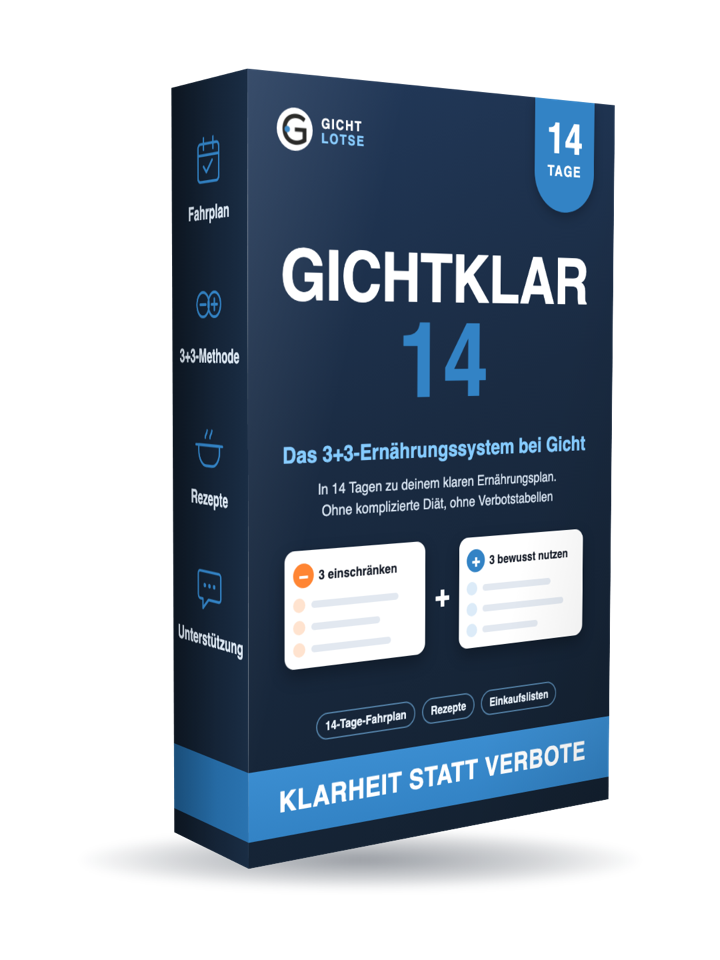
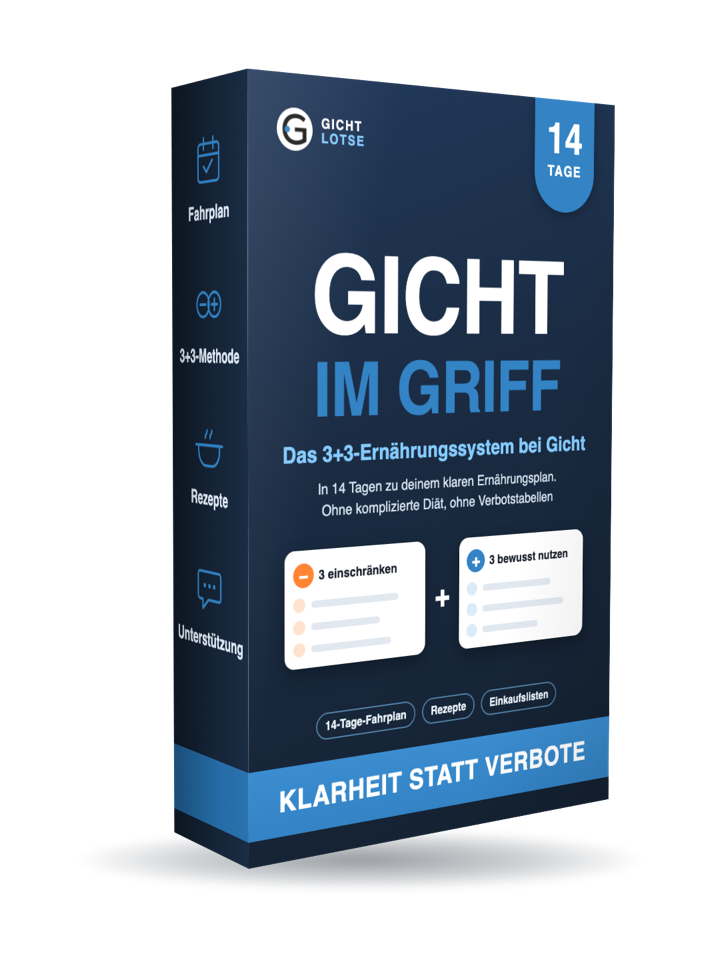
Produktname GICHT IM GRIFF, Autor nur Diplom-Biologe
Box-Mockup neu gerendert, alle Texte, README und Lovable-Prompt
angepasst. Heilpraktiker bewusst nicht mehr genannt.

Changed region(s): [[0.3972, 0.25, 0.825, 0.4375]]

diff --git a/index.html b/index.html
@@ -3,7 +3,7 @@
 <head>
 <meta charset="UTF-8">
 <meta name="viewport" content="width=device-width, initial-scale=1">
-<title>GICHTKLAR 14 | In 14 Tagen zu einem klaren Ernährungsplan bei Gicht</title>
+<title>GICHT IM GRIFF | In 14 Tagen zu einem klaren Ernährungsplan bei Gicht</title>
 <link rel="icon" type="image/png" href="bilder/favicon.png">
 <link rel="apple-touch-icon" href="bilder/favicon.png">
 <meta name="description" content="Das einfache 3+3-Ernährungssystem für Männer ab 45 mit Gicht. 14-Tage-Fahrplan, Rezepte, Einkaufslisten. Nur 37 € statt 199 €.">
@@ -69,9 +69,9 @@ a.buy:hover .btn{background:var(--btnhover);}
   </div>
 
   <div class="hero">
-    <div class="left"><img src="bilder/cover.png" alt="GICHTKLAR 14 Box: Das 3+3-Ernährungssystem bei Gicht"></div>
+    <div class="left"><img src="bilder/cover.png" alt="GICHT IM GRIFF Box: Das 3+3-Ernährungssystem bei Gicht"></div>
     <div class="right">
-      <h2>Das bekommst du in GICHTKLAR 14</h2>
+      <h2>Das bekommst du in GICHT IM GRIFF</h2>
       <ul class="bullets">
         <li><span class="check">&#10003;</span><div><b>Dein 14-Tage-Ernährungsfahrplan</b>: Jeden Tag ein klarer Schritt, damit du morgens weißt, was auf deinen Teller kommt</div></li>
         <li><span class="check">&#10003;</span><div><b>Die 3+3-Methode</b>: 3 Lebensmittelgruppen, die du gezielt einschränkst, und 3, die du bewusst einbaust</div></li>
@@ -81,9 +81,9 @@ a.buy:hover .btn{background:var(--btnhover);}
       </ul>
       <div class="price"><span class="old">Statt 199 €</span><span class="new">nur 37 €</span></div>
       <!-- BESTELL-LINK: vorläufig gicht-coach.de/ernaehrungsratgeber, später durch bryght.social-Link ersetzen -->
-      <a class="buy" href="https://gicht-coach.de/ernaehrungsratgeber/"><div class="btn">Jetzt GICHTKLAR 14 für 37 € sichern</div></a>
+      <a class="buy" href="https://gicht-coach.de/ernaehrungsratgeber/"><div class="btn">Jetzt GICHT IM GRIFF für 37 € sichern</div></a>
       <!-- Nach Start auf bryght.social ersetzen durch: Sichere Bezahlung über bryght.social. Sofortzugang nach Kauf -->
-      <div class="micro">GICHTKLAR 14 startet in Kürze. Bis dahin findest du hier meinen Ernährungsratgeber</div>
+      <div class="micro">GICHT IM GRIFF startet in Kürze. Bis dahin findest du hier meinen Ernährungsratgeber</div>
     </div>
   </div>
 
@@ -101,15 +101,15 @@ a.buy:hover .btn{background:var(--btnhover);}
 
   <div class="author">
     <img src="bilder/autor.jpg" onerror="this.onerror=null;this.src='bilder/autor.svg'" alt="Jochen Hein">
-    <div class="txt"><b>Jochen Hein</b>, <b>Diplom-Biologe und Heilpraktiker</b>. Mit meinem <b>3+3-System</b> sank mein Harnsäurewert von <b>7,3 auf 6,3 mg/dl</b>, ich lebe ohne Medikamente und bin <b>seit August 2017</b> frei von Gichtanfällen. Bei mir hat die Ernährung gereicht; ob das bei dir genauso ist, kann ich nicht versprechen, aber ich gebe dir den Plan, den ich mir 2012 gewünscht hätte.</div>
+    <div class="txt"><b>Jochen Hein</b>, <b>Diplom-Biologe</b>. Mit meinem <b>3+3-System</b> sank mein Harnsäurewert von <b>7,3 auf 6,3 mg/dl</b>, ich lebe ohne Medikamente und bin <b>seit August 2017</b> frei von Gichtanfällen. Bei mir hat die Ernährung gereicht; ob das bei dir genauso ist, kann ich nicht versprechen, aber ich gebe dir den Plan, den ich mir 2012 gewünscht hätte.</div>
   </div>
 
-  <div class="guarantee">14 Tage Geld-zurück-Garantie: Teste GICHTKLAR 14 in Ruhe. Passt es nicht zu deinem Alltag, bekommst du deine 37 € zurück, ohne Angabe von Gründen. Einmalzahlung, kein Abo.</div>
+  <div class="guarantee">14 Tage Geld-zurück-Garantie: Teste GICHT IM GRIFF in Ruhe. Passt es nicht zu deinem Alltag, bekommst du deine 37 € zurück, ohne Angabe von Gründen. Einmalzahlung, kein Abo.</div>
 
   <!-- BESTELL-LINK: vorläufig gicht-coach.de/ernaehrungsratgeber, später durch bryght.social-Link ersetzen -->
-  <div class="cta2"><a class="buy" href="https://gicht-coach.de/ernaehrungsratgeber/"><div class="btn">Jetzt GICHTKLAR 14 für 37 € sichern</div></a></div>
+  <div class="cta2"><a class="buy" href="https://gicht-coach.de/ernaehrungsratgeber/"><div class="btn">Jetzt GICHT IM GRIFF für 37 € sichern</div></a></div>
 
-  <div class="foot">GICHTKLAR 14 ist ein Ernährungs- und Informationsprogramm und ersetzt keine ärztliche Diagnose oder Behandlung. Beschwerdefreiheit, bestimmte Harnsäurewerte oder das Ausbleiben weiterer Gichtanfälle werden nicht garantiert. Die Kundenstimmen stammen aus meiner persönlichen Einzelberatung, Personendaten sind anonymisiert. Einzelergebnisse sind nicht übertragbar.<br><br><a href="https://gicht-lotse.de/impressum/" target="_blank" rel="noopener">Impressum</a> · <a href="https://gicht-lotse.de/datenschutz/" target="_blank" rel="noopener">Datenschutz</a> · © 2026 Jochen Hein</div>
+  <div class="foot">GICHT IM GRIFF ist ein Ernährungs- und Informationsprogramm und ersetzt keine ärztliche Diagnose oder Behandlung. Beschwerdefreiheit, bestimmte Harnsäurewerte oder das Ausbleiben weiterer Gichtanfälle werden nicht garantiert. Die Kundenstimmen stammen aus meiner persönlichen Einzelberatung, Personendaten sind anonymisiert. Einzelergebnisse sind nicht übertragbar.<br><br><a href="https://gicht-lotse.de/impressum/" target="_blank" rel="noopener">Impressum</a> · <a href="https://gicht-lotse.de/datenschutz/" target="_blank" rel="noopener">Datenschutz</a> · © 2026 Jochen Hein</div>
 
 </div>
 </body>

diff --git a/docs/mockup/box.html b/docs/mockup/box.html
@@ -2,7 +2,7 @@
 <html lang="de">
 <head>
 <meta charset="UTF-8">
-<title>GICHTKLAR 14 · 3D-Box-Mockup</title>
+<title>GICHT IM GRIFF · 3D-Box-Mockup</title>
 <!--
   Quelle für bilder/cover.png. Neu rendern mit:
   "/Applications/Google Chrome.app/Contents/MacOS/Google Chrome" --headless=new --hide-scrollbars \
@@ -49,9 +49,9 @@ body{font-family:Helvetica,Arial,sans-serif;}
 .badge i{display:block;font-style:normal;font-size:22px;font-weight:800;letter-spacing:2px;margin-top:4px;}
 
 .title{position:absolute;left:0;right:0;top:228px;text-align:center;color:#fff;font-weight:900;
-  font-size:96px;line-height:.95;letter-spacing:-1px;}
+  font-size:150px;line-height:.95;letter-spacing:-2px;}
 .title span{color:var(--blue);}
-.title small{display:block;font-size:150px;color:var(--blue);letter-spacing:-2px;}
+.title small{display:block;font-size:104px;color:var(--blue);letter-spacing:-1px;margin-top:10px;}
 .subtitle{position:absolute;left:0;right:0;top:500px;text-align:center;color:var(--light);font-size:31px;font-weight:700;}
 .tag{position:absolute;left:70px;right:70px;top:552px;text-align:center;color:#D7E3F0;font-size:21px;line-height:1.45;}
 
@@ -101,7 +101,7 @@ body{font-family:Helvetica,Arial,sans-serif;}
       <div class="brand"><div class="g"><img src="../../bilder/favicon.png" alt=""></div><div class="t">GICHT<span>LOTSE</span></div></div>
       <div class="badge"><b>14</b><i>TAGE</i></div>
 
-      <div class="title">GICHTKLAR<small>14</small></div>
+      <div class="title">GICHT<small>IM GRIFF</small></div>
       <div class="subtitle">Das 3+3-Ernährungssystem bei Gicht</div>
       <div class="tag">In 14 Tagen zu deinem klaren Ernährungsplan.<br>Ohne komplizierte Diät, ohne Verbotstabellen</div>
 

diff --git a/docs/lovable-prompt.md b/docs/lovable-prompt.md
@@ -21,7 +21,7 @@ HIER DER CODE:
 <head>
 <meta charset="UTF-8">
 <meta name="viewport" content="width=device-width, initial-scale=1">
-<title>GICHTKLAR 14 | In 14 Tagen zu einem klaren Ernährungsplan bei Gicht</title>
+<title>GICHT IM GRIFF | In 14 Tagen zu einem klaren Ernährungsplan bei Gicht</title>
 <link rel="icon" type="image/png" href="bilder/favicon.png">
 <link rel="apple-touch-icon" href="bilder/favicon.png">
 <meta name="description" content="Das einfache 3+3-Ernährungssystem für Männer ab 45 mit Gicht. 14-Tage-Fahrplan, Rezepte, Einkaufslisten. Nur 37 € statt 199 €.">
@@ -87,9 +87,9 @@ a.buy:hover .btn{background:var(--btnhover);}
   </div>
 
   <div class="hero">
-    <div class="left"><img src="bilder/cover.png" alt="GICHTKLAR 14 Box: Das 3+3-Ernährungssystem bei Gicht"></div>
+    <div class="left"><img src="bilder/cover.png" alt="GICHT IM GRIFF Box: Das 3+3-Ernährungssystem bei Gicht"></div>
     <div class="right">
-      <h2>Das bekommst du in GICHTKLAR 14</h2>
+      <h2>Das bekommst du in GICHT IM GRIFF</h2>
       <ul class="bullets">
         <li><span class="check">&#10003;</span><div><b>Dein 14-Tage-Ernährungsfahrplan</b>: Jeden Tag ein klarer Schritt, damit du morgens weißt, was auf deinen Teller kommt</div></li>
         <li><span class="check">&#10003;</span><div><b>Die 3+3-Methode</b>: 3 Lebensmittelgruppen, die du gezielt einschränkst, und 3, die du bewusst einbaust</div></li>
@@ -99,9 +99,9 @@ a.buy:hover .btn{background:var(--btnhover);}
       </ul>
       <div class="price"><span class="old">Statt 199 €</span><span class="new">nur 37 €</span></div>
       <!-- BESTELL-LINK: vorläufig gicht-coach.de/ernaehrungsratgeber, später durch bryght.social-Link ersetzen -->
-      <a class="buy" href="https://gicht-coach.de/ernaehrungsratgeber/"><div class="btn">Jetzt GICHTKLAR 14 für 37 € sichern</div></a>
+      <a class="buy" href="https://gicht-coach.de/ernaehrungsratgeber/"><div class="btn">Jetzt GICHT IM GRIFF für 37 € sichern</div></a>
       <!-- Nach Start auf bryght.social ersetzen durch: Sichere Bezahlung über bryght.social. Sofortzugang nach Kauf -->
-      <div class="micro">GICHTKLAR 14 startet in Kürze. Bis dahin findest du hier meinen Ernährungsratgeber</div>
+      <div class="micro">GICHT IM GRIFF startet in Kürze. Bis dahin findest du hier meinen Ernährungsratgeber</div>
     </div>
   </div>
 
@@ -119,15 +119,15 @@ a.buy:hover .btn{background:var(--btnhover);}
 
   <div class="author">
     <img src="bilder/autor.jpg" onerror="this.onerror=null;this.src='bilder/autor.svg'" alt="Jochen Hein">
-    <div class="txt"><b>Jochen Hein</b>, <b>Diplom-Biologe und Heilpraktiker</b>. Mit meinem <b>3+3-System</b> sank mein Harnsäurewert von <b>7,3 auf 6,3 mg/dl</b>, ich lebe ohne Medikamente und bin <b>seit August 2017</b> frei von Gichtanfällen. Bei mir hat die Ernährung gereicht; ob das bei dir genauso ist, kann ich nicht versprechen, aber ich gebe dir den Plan, den ich mir 2012 gewünscht hätte.</div>
+    <div class="txt"><b>Jochen Hein</b>, <b>Diplom-Biologe</b>. Mit meinem <b>3+3-System</b> sank mein Harnsäurewert von <b>7,3 auf 6,3 mg/dl</b>, ich lebe ohne Medikamente und bin <b>seit August 2017</b> frei von Gichtanfällen. Bei mir hat die Ernährung gereicht; ob das bei dir genauso ist, kann ich nicht versprechen, aber ich gebe dir den Plan, den ich mir 2012 gewünscht hätte.</div>
   </div>
 
-  <div class="guarantee">14 Tage Geld-zurück-Garantie: Teste GICHTKLAR 14 in Ruhe. Passt es nicht zu deinem Alltag, bekommst du deine 37 € zurück, ohne Angabe von Gründen. Einmalzahlung, kein Abo.</div>
+  <div class="guarantee">14 Tage Geld-zurück-Garantie: Teste GICHT IM GRIFF in Ruhe. Passt es nicht zu deinem Alltag, bekommst du deine 37 € zurück, ohne Angabe von Gründen. Einmalzahlung, kein Abo.</div>
 
   <!-- BESTELL-LINK: vorläufig gicht-coach.de/ernaehrungsratgeber, später durch bryght.social-Link ersetzen -->
-  <div class="cta2"><a class="buy" href="https://gicht-coach.de/ernaehrungsratgeber/"><div class="btn">Jetzt GICHTKLAR 14 für 37 € sichern</div></a></div>
+  <div class="cta2"><a class="buy" href="https://gicht-coach.de/ernaehrungsratgeber/"><div class="btn">Jetzt GICHT IM GRIFF für 37 € sichern</div></a></div>
 
-  <div class="foot">GICHTKLAR 14 ist ein Ernährungs- und Informationsprogramm und ersetzt keine ärztliche Diagnose oder Behandlung. Beschwerdefreiheit, bestimmte Harnsäurewerte oder das Ausbleiben weiterer Gichtanfälle werden nicht garantiert. Die Kundenstimmen stammen aus meiner persönlichen Einzelberatung, Personendaten sind anonymisiert. Einzelergebnisse sind nicht übertragbar.<br><br><a href="https://gicht-lotse.de/impressum/" target="_blank" rel="noopener">Impressum</a> · <a href="https://gicht-lotse.de/datenschutz/" target="_blank" rel="noopener">Datenschutz</a> · © 2026 Jochen Hein</div>
+  <div class="foot">GICHT IM GRIFF ist ein Ernährungs- und Informationsprogramm und ersetzt keine ärztliche Diagnose oder Behandlung. Beschwerdefreiheit, bestimmte Harnsäurewerte oder das Ausbleiben weiterer Gichtanfälle werden nicht garantiert. Die Kundenstimmen stammen aus meiner persönlichen Einzelberatung, Personendaten sind anonymisiert. Einzelergebnisse sind nicht übertragbar.<br><br><a href="https://gicht-lotse.de/impressum/" target="_blank" rel="noopener">Impressum</a> · <a href="https://gicht-lotse.de/datenschutz/" target="_blank" rel="noopener">Datenschutz</a> · © 2026 Jochen Hein</div>
 
 </div>
 </body>

diff --git a/README.md b/README.md
@@ -1,6 +1,6 @@
-# GICHTKLAR 14 · Verkaufsseite für den 37-€-Workshop
+# GICHT IM GRIFF · Verkaufsseite für den 37-€-Workshop
 
-Verkaufsseite für **GICHTKLAR 14**, ein 14-Tage-Ernährungssystem für Männer ab 45 mit Gicht.
+Verkaufsseite für **GICHT IM GRIFF**, ein 14-Tage-Ernährungssystem für Männer ab 45 mit Gicht.
 
 ## Projekt-Kontext
 
@@ -24,7 +24,7 @@ Verkaufsseite für **GICHTKLAR 14**, ein 14-Tage-Ernährungssystem für Männer 
 ## Aufbau
 
 - `index.html`: die komplette Seite (HTML und CSS in einer Datei)
-- `bilder/cover.png`: 3D-Box-Mockup GICHTKLAR 14 (720 × 960 px, transparenter Hintergrund)
+- `bilder/cover.png`: 3D-Box-Mockup GICHT IM GRIFF (720 × 960 px, transparenter Hintergrund)
 - `bilder/logo-web.jpg`: Gicht-Lotse-Logo für den Seitenkopf (520 px breit, aus `logo/gicht-lotse-logo-quer.jpg`)
 - `bilder/favicon.png`: Browser-Icon (180 px, aus `logo/gicht-lotse-icon-quadrat.webp`)
 - `bilder/logo/`: alle Original-Logo-Varianten (quer, 16:9, quadratisch, nur das G-Icon)
@@ -32,17 +32,17 @@ Verkaufsseite für **GICHTKLAR 14**, ein 14-Tage-Ernährungssystem für Männer 
 - `docs/lovable-prompt.md`: fertiger Prompt, um die Seite in Lovable zu bauen
 - `docs/copy-notizen.md`: Produktnamen und Hinweise zur Copy
 - `docs/mockup/box.html`: Quelle des Box-Mockups (HTML/CSS 3D). Texte und Farben dort ändern und neu rendern, der Befehl steht oben in der Datei
-- `docs/mockup/gichtklar14-box-1080x1440.png`: Box-Mockup in voller Größe, z. B. für Social Media oder bryght.social
-- `docs/referenz/mockup-pre-kurs-strategie.webp`: Box-Mockup aus dem Referenzprojekt, als Vorlage für ein eigenes GICHTKLAR-14-Cover. **Nicht selbst auf der Seite verwenden.**
+- `docs/mockup/gicht-im-griff-box-1080x1440.png`: Box-Mockup in voller Größe, z. B. für Social Media oder bryght.social
+- `docs/referenz/mockup-pre-kurs-strategie.webp`: Box-Mockup aus dem Referenzprojekt, als Vorlage für ein eigenes GICHT-IM-GRIFF-Cover. **Nicht selbst auf der Seite verwenden.**
 
 ## Noch offen
 
 - [ ] Bestell-Link von bryght.social an beiden Buttons einsetzen. Vorläufig verlinken sie auf https://gicht-coach.de/ernaehrungsratgeber/. Dann auch den Text unter dem Button zurücksetzen (Vorlage steht als Kommentar in `index.html`)
-- [x] Eigenes 3D-Box-Mockup für GICHTKLAR 14 im Stil der Referenz erstellt und als Cover eingesetzt
+- [x] Eigenes 3D-Box-Mockup für GICHT IM GRIFF im Stil der Referenz erstellt und als Cover eingesetzt
 - [x] Farben und Schriften von gicht-lotse.de und gicht-coach.de übernommen
 - [x] Drei Kundenstimmen von gicht-coach.de übernommen (Thomas, Michael, Monika; Hinweis auf Einzelberatung im Footer)
 - [x] Impressum und Datenschutz verlinkt (gicht-lotse.de/impressum, gicht-lotse.de/datenschutz)
 - [ ] Datenschutzerklärung auf gicht-lotse.de um diese Seite ergänzen: Hosting über GitHub Pages, Verkauf über bryght.social
-- [ ] Impressum prüfen: „§ 5 TMG“ auf „§ 5 DDG“ aktualisieren; als Heilpraktiker ggf. Berufsbezeichnung und zuständige Aufsichtsbehörde angeben
+- [ ] Impressum prüfen: „§ 5 TMG“ auf „§ 5 DDG“ aktualisieren
 - [x] Autoren-Foto hinzugefügt (Bildnachweis: Aljoscha Habel, ggf. im Impressum nennen)
 - [ ] Veröffentlichungs-URL festlegen

diff --git a/docs/copy-notizen.md b/docs/copy-notizen.md
@@ -2,9 +2,11 @@
 
 ## Produktnamen
 
-1. **GICHTKLAR 14** (gewählt): verspricht Klarheit statt Heilung, nah am Original
+1. **GICHTKLAR 14**: verspricht Klarheit statt Heilung, nah am Original (bis 06.11.2026 genutzt)
 2. **Der 3+3-Gicht-Kompass**: stellt den Mechanismus in den Mittelpunkt
 3. **GICHTFREI 14**: ursprünglicher Name; „gichtfrei“ wirkt wie ein Heilversprechen und ist nach dem Heilmittelwerbegesetz (HWG) riskant
+
+**Aktueller Name: GICHT IM GRIFF** (Entscheidung Jochen Hein, 06.11.2026)
 
 ## Copy-Regeln
 
@@ -16,5 +18,5 @@ Eine große Idee, konkrete Zahlen, kurze Sätze, Du-Anrede, keine Floskeln, kein
 - Eigene Zahlen (Stand gicht-coach.de): Harnsäure 7,3 → 6,3 mg/dl, Medikamente in Abstimmung mit dem Arzt abgesetzt, seit August 2017 keine Gichtanfälle. Kernaussage: **Bei mir hat die Ernährung gereicht. Dass sie bei anderen ausreicht, ist damit nicht bewiesen.** Diese Einschränkung muss auf der Seite sichtbar bleiben (Autoren-Text, Footer).
 - Der Gesundheits-Disclaimer steht im Footer.
 - Nicht auf der Seite: das Vorteilspaket mit 266 € Gesamtwert (in der Vorlage ist kein Platz dafür).
-- Autoren-Text nennt die Qualifikation **Biologe und Heilpraktiker**. Formulierungen bleiben bewusst sachlich (keine Heilversprechen, HWG).
-- Kundenstimmen stammen aus der Einzelberatung auf gicht-coach.de (nicht aus GICHTKLAR 14). Das steht im Footer. Sobald es Stimmen zu GICHTKLAR 14 gibt, diese bevorzugen.
+- Autoren-Text nennt nur **Diplom-Biologe** (wie gicht-coach.de). Den Heilpraktiker bewusst nicht nennen: passt zur faktenbasierten Positionierung, vermeidet den Eindruck von Heilkunde und zusätzliche Impressumspflichten. Das HWG gilt für die Seite trotzdem.
+- Kundenstimmen stammen aus der Einzelberatung auf gicht-coach.de (nicht aus GICHT IM GRIFF). Das steht im Footer. Sobald es Stimmen zu GICHTKLAR 14 gibt, diese bevorzugen.
